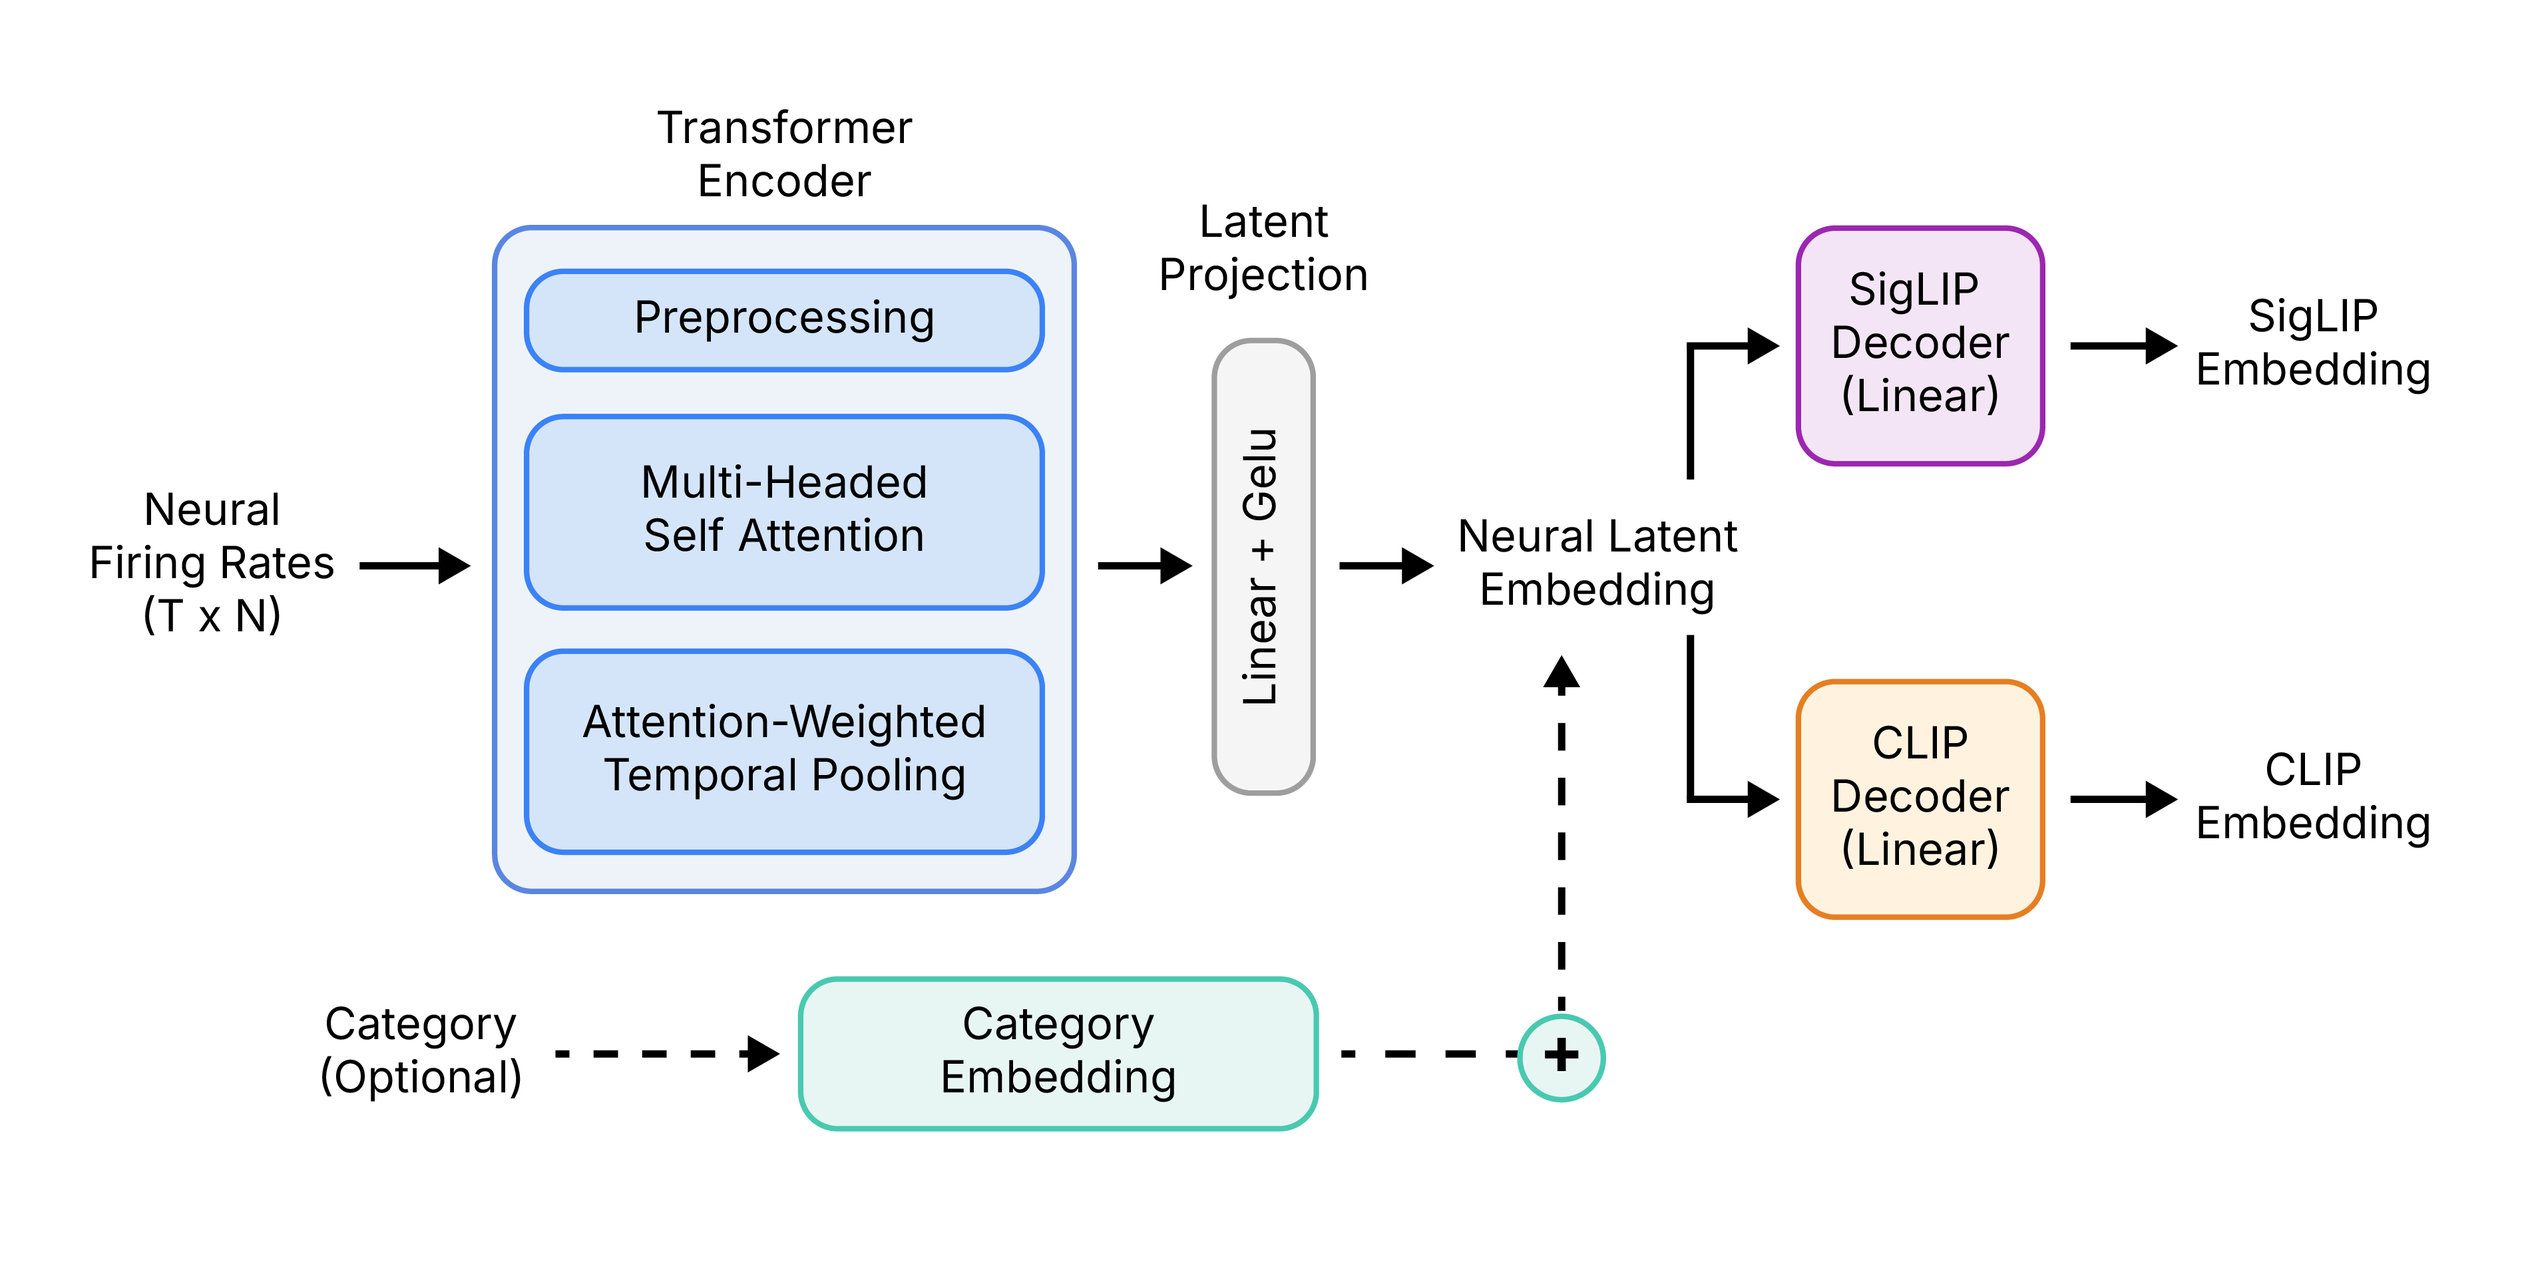
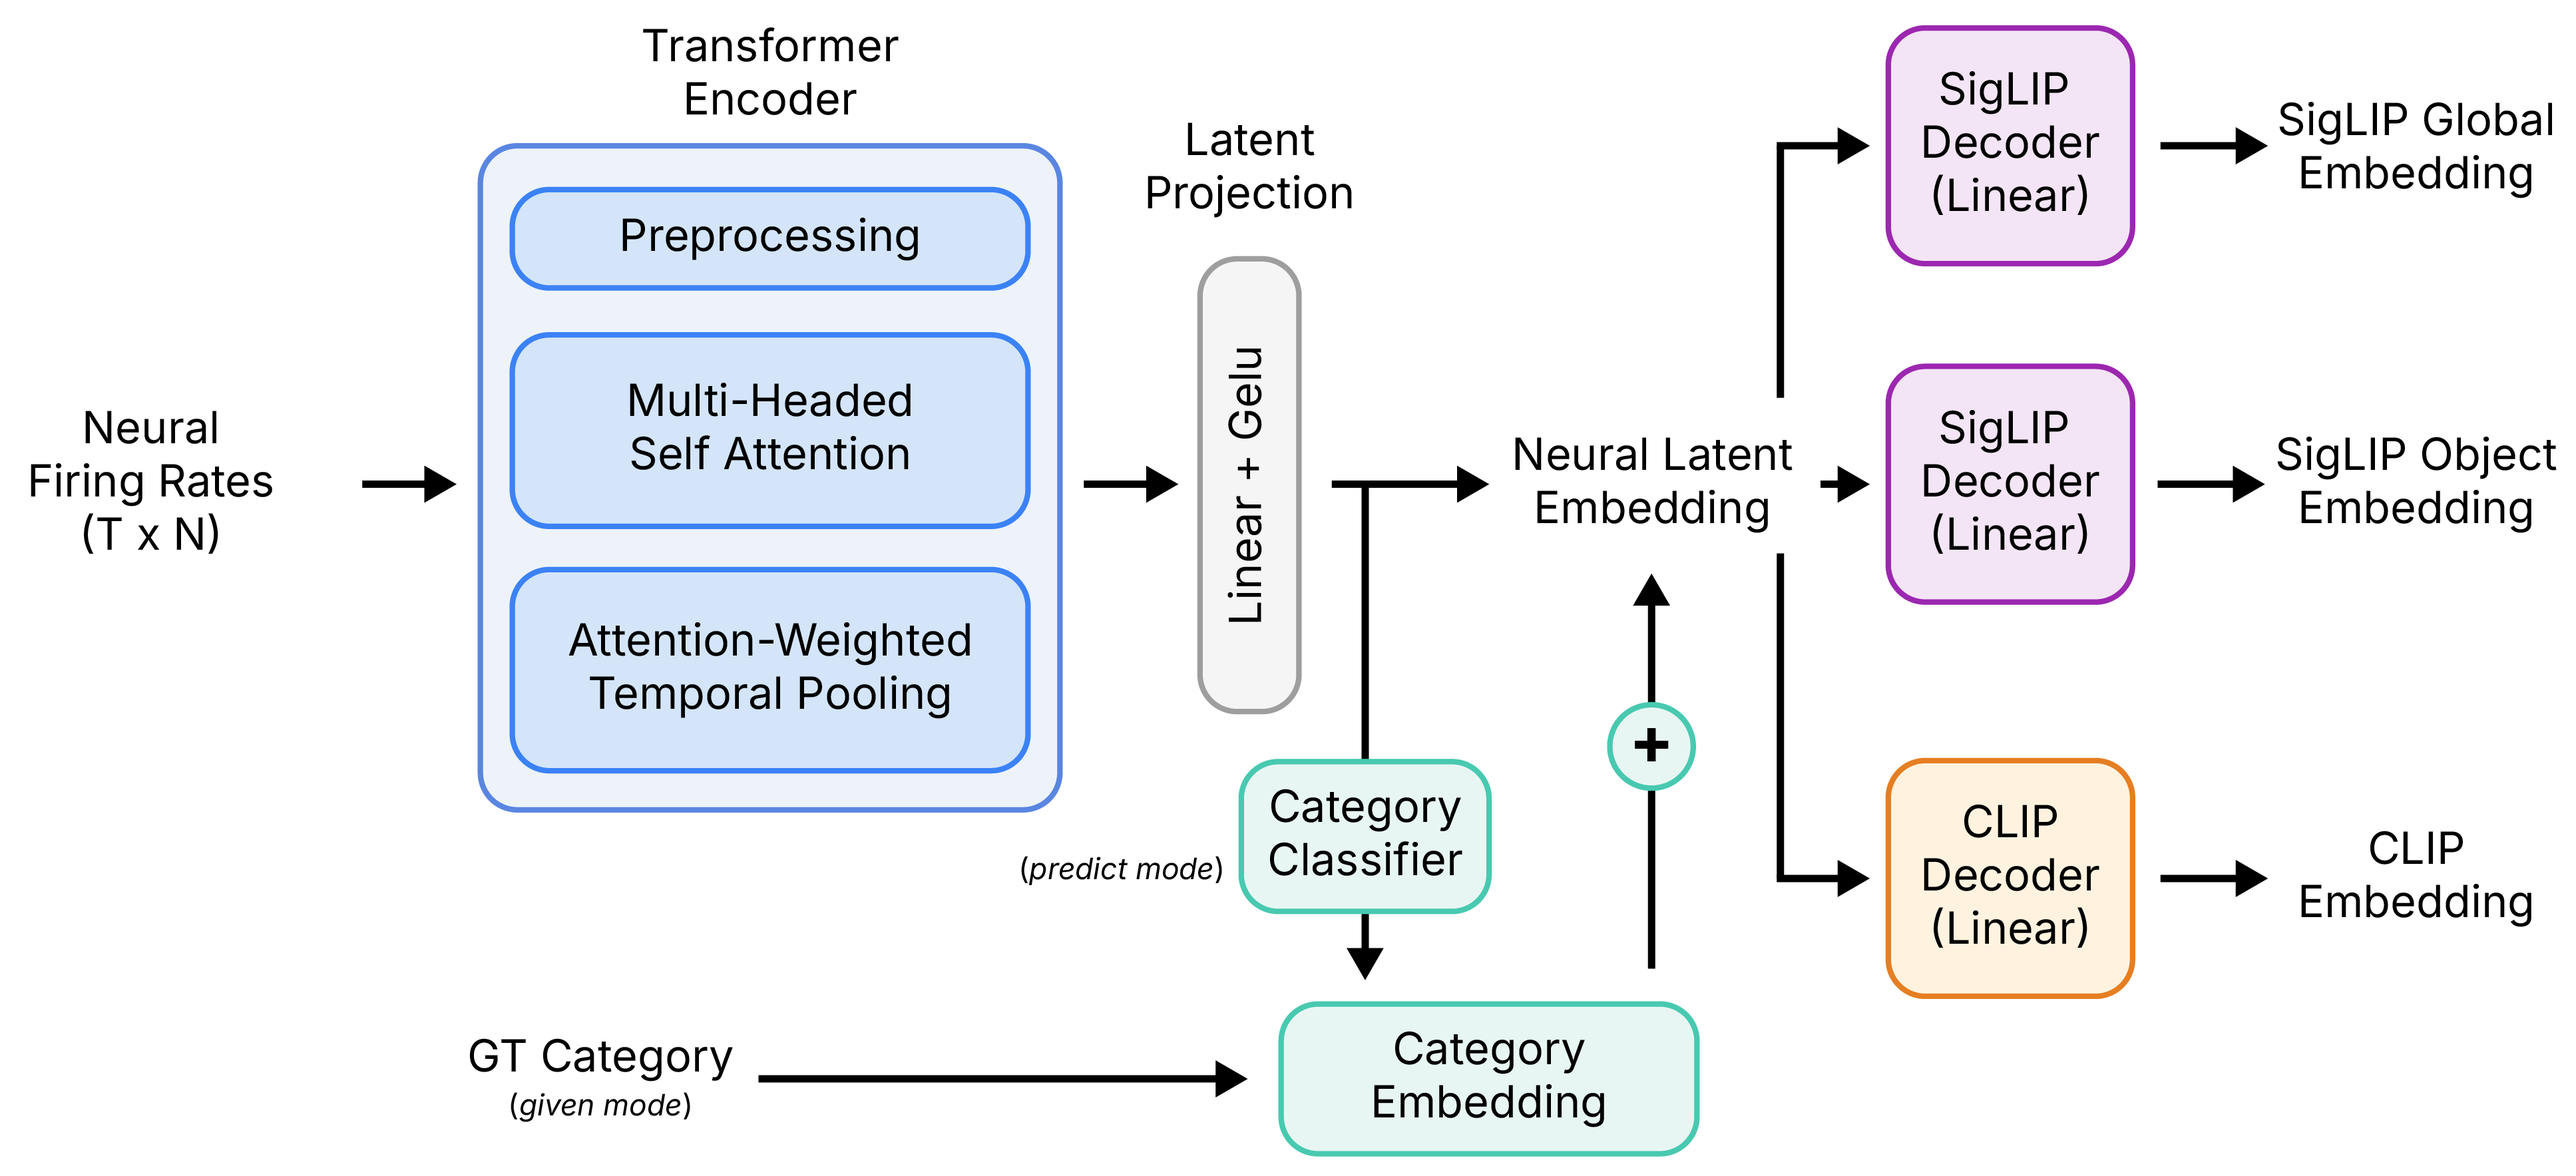
Correct README architecture and LoRA description
Replaces the two-head encoder figure and prose with the unified V2 three-head design and its given/predict category conditioning, and documents the rank-16 FLUX LoRA that inference loads by default, which the README had described as no finetuning at all. Notes that the encoder table reports V2 while the reconstructions come from the earlier separate global and object models, and condenses install and usage into a single block.

Changed region(s): [[0.0, 0.0, 0.995, 0.996], [0.8706, 0.2179, 0.9639, 0.3113], [0.2177, 0.8093, 0.3109, 0.8404]]

diff --git a/README.md b/README.md
@@ -1,6 +1,6 @@
 # From Spikes to Scenes: Neural Image Reconstruction from Marmoset Visual Cortex in the Data-Limited Regime
 
-Reconstructs the image a marmoset was looking at, directly from Neuropixels population activity, by decoding neural responses into vision-language embeddings and conditioning a frozen FLUX.1-dev diffusion model on them.
+Reconstructs the image a marmoset was looking at, directly from Neuropixels population activity, by decoding neural responses into vision-language embeddings and conditioning a FLUX.1-dev diffusion model on them.
 
 Prior brain-to-image work needs 22,000+ images or thousands of trials. This repo does it with **270 training examples**, the regime typical of primate electrophysiology.
 
@@ -19,55 +19,28 @@ Two lightweight transformer encoders map a 2,330-neuron pseudo-population to Sig
 1. **Pass 1 (object recovery).** The GDINO bbox crop is denoised conditioned on `ẑ_sig_obj`, then composited back onto the original to form a spliced latent.
 2. **Pass 2 (global recovery).** Starts from the original init latent conditioned on `ẑ_sig_global`. Bbox tokens are blended toward the spliced latent with a cosine-decaying weight (0.6 → 0), anchoring object structure early and releasing it late. Latents outside the circular aperture are pinned to the original.
 
-No adapter finetuning is involved. Everything downstream of the encoders is pretrained and frozen.
+The IP-Adapter itself is used as pretrained. To close the domain gap between its natural-photograph training distribution and HVM stimuli (controlled lighting, plain backgrounds, circular aperture), a rank-16 LoRA is fine-tuned on the 270 HVM training images over the FLUX transformer's attention and feed-forward layers, with the base weights, VAE, text encoders, SigLIP encoder, and IP-Adapter all frozen. That LoRA is loaded by default at inference.
 
 ---
 
-## Install
+## Install and usage
 
-Dependencies are pinned in `pyproject.toml` and locked in `uv.lock` ([uv](https://docs.astral.sh/uv/) required, Python 3.12).
+Requires [uv](https://docs.astral.sh/uv/) and Python 3.12. All commands run from the repo root.
 
 ```bash
 uv sync
-```
 
-This creates `.venv/` with the cu124 torch builds. The loaders import `HexPred`, which is not a package dependency and is reached through a path entry, so add one after syncing:
-
-```bash
+# HexPred is reached by path, not as a dependency
 printf '%s\n' /home/yy3658 /home/yy3658/HexPred /home/yy3658/helpers \
   > .venv/lib/python3.12/site-packages/extra_paths.pth
+
+uv run python train/train_multihead_v2.py                   # unified three-head encoder
+uv run python train/train_multihead.py --dataset hvm --use-category   # global model, for generation
+uv run python train/train_multihead_obj.py --use-category             # object model, for generation
+uv run python scripts/generate_hvm_obj.py                   # 90 test stimuli
 ```
 
-Then run commands with `uv run`, or activate the venv directly:
-
-```bash
-source .venv/bin/activate
-```
-
-All scripts run from the repo root. Key paths live in `config_const.py`. HVM stimulus images are expected at `stimuli/hvm_nofixation/`, and the caches in `cache/` are built by the scripts in `scripts/`.
-
-## Usage
-
-**Train the encoders.**
-
-```bash
-# Global model (full-image SigLIP + CLIP)
-uv run python train/train_multihead.py --dataset hvm --use-category
-
-# Object model (bbox-crop SigLIP + CLIP)
-uv run python train/train_multihead_obj.py --use-category
-```
-
-Best configurations are written to `cache/best_hvm_multihead_config.json` and `cache/best_hvm_multihead_obj_config.json`. Best sweep result: `d_model=64, n_heads=4, n_layers=2, shared_dim=512`.
-
-**Generate reconstructions.**
-
-```bash
-uv run python scripts/generate_hvm_obj.py          # all 90 test stimuli
-uv run python scripts/generate_hvm_obj.py --n 10   # first 10 only
-```
-
-Outputs land in `outputs/generate_hvm_obj/{full,crop}/` as labeled PNG composites, one per stimulus, covering all four conditions.
+Paths live in `config_const.py`, stimuli in `stimuli/hvm_nofixation/`, and `cache/` is built by the scripts in `scripts/`. Reconstructions land in `outputs/generate_hvm_obj/{full,crop}/`. Best sweep config: `d_model=64, n_heads=4, n_layers=2, shared_dim=512`.
 
 ## Repository layout
 
@@ -100,13 +73,17 @@ Neural responses are mean-trial spike rates from Neuropixels 1.0 recordings in m
 
 ## Model details
 
-Each encoder predicts an L2-normalised SigLIP and CLIP embedding from the neural response. The global model targets the full-image SigLIP, the object model targets SigLIP of the GDINO-cropped object region. That separation is neurobiologically motivated: the ventral stream encodes a position- and size-invariant representation that aligns more closely with the object crop than the full image. A learned category embedding is added to the shared latent as a low-data inductive bias, and the shared latent doubles as an interpretable probe of the population, analyzable independently of generation.
+A shared pre-LN transformer backbone pools the neural response over time by learned attention, projects it to a `shared_dim` latent, and reads out three L2-normalised heads: full-image SigLIP, object-crop SigLIP, and CLIP. Splitting the two SigLIP targets is neurobiologically motivated, since the ventral stream encodes a position- and size-invariant representation that aligns more closely with the object crop than the full image.
+
+This unified V2 encoder (`encoders/multihead_v2.py`, trained by `train/train_multihead_v2.py`) is what the analyses below probe. The generation pipeline still runs the earlier design, where the same backbone and loss are trained twice as separate global and object models with one SigLIP head each.
+
+A learned category embedding is added to the shared latent as a low-data inductive bias. The label is either supplied (`given`) or predicted from the pre-addition latent by a small classifier (`predict`); all results here use `given`, since the classifier only reaches 0.22 test accuracy. The latent before that addition doubles as an interpretable probe of the population, analyzable independently of generation.
 
 ![MultiHeadTransformer architecture](assets/fig1_architecture.png)
 
 The loss combines per-head InfoNCE and cosine regression with a uniformity penalty on the shared latent:
 
-$$\mathcal{L} = w_\text{sig}\left[\alpha \mathcal{L}^\text{sig}_\text{NCE} + (1-\alpha)\mathcal{L}^\text{sig}_\text{cos}\right] + w_\text{clip}\left[\alpha \mathcal{L}^\text{clip}_\text{NCE} + (1-\alpha)\mathcal{L}^\text{clip}_\text{cos}\right] + w_\text{unif}\mathcal{L}_\text{unif}$$
+$$\mathcal{L} = \sum_{h \in \{\text{sig-g},\, \text{sig-o},\, \text{clip}\}} w_h \left[\alpha \mathcal{L}^h_\text{NCE} + (1-\alpha)\mathcal{L}^h_\text{cos}\right] + w_\text{unif}\mathcal{L}_\text{unif}$$
 
 where $\alpha$ controls the InfoNCE/cosine tradeoff and $\mathcal{L}_\text{unif}$ penalises collapsed shared latents.
 
@@ -125,14 +102,15 @@ The IP-Adapter's `MLPProjModel` maps SigLIP 1152-d to 128 × 4096 image tokens, 
 | Neural pred | zeroed | ẑ_clip (obj model) | ẑ_sig_obj → ẑ_sig_global |
 | GT emb (upper bound) | zeroed | category CLIP | GT SigLIP crop → GT SigLIP full |
 
-**The encoders generalize.** Both reach well above-chance 2-AFC on held-out stimuli, so 270 training examples suffice to recover stimulus-specific embedding information from noisy pseudo-population responses.
+**The encoders generalize.** All three heads reach well above-chance 2-AFC on held-out stimuli, so 270 training examples suffice to recover stimulus-specific embedding information from noisy pseudo-population responses.
 
-| Model | SigLIP cos | CLIP cos | SigLIP 2-AFC | CLIP 2-AFC |
+| Head | cos sim | 2-AFC | top-1 | top-5 |
 | --- | --- | --- | --- | --- |
-| Global | 0.8331 | 0.9834 | 0.9663 | 0.9101 |
-| Object | 0.8804 | 0.9886 | 0.9582 | 0.9101 |
+| SigLIP global | 0.8526 | 0.9649 | 0.222 | 0.711 |
+| SigLIP object | 0.8744 | 0.9596 | 0.178 | 0.644 |
+| CLIP | 0.9845 | — | 0.078 | 0.511 |
 
-*Chance = 0.5, on the 90 test stimuli.*
+*Unified V2 encoder (`cat_mode=given`), test split, 90 stimuli. Chance is 0.5 for 2-AFC and 0.011 for top-1. The reconstructions below were generated earlier, from the two separate global and object encoders.*
 
 **Neural conditioning matches or beats text conditioning.** Across the 90 test stimuli, neural reconstructions beat text-conditioned ones on pixel and perceptual fidelity, despite the text condition receiving the ground-truth category label through both T5 and CLIP. The neural pathway has to recover that semantic content from a small, noisy population and still comes out ahead.
 
@@ -149,6 +127,16 @@ The IP-Adapter's `MLPProjModel` maps SigLIP 1152-d to 128 × 4096 image tokens, 
 
 **Failures localize what the population misses.** The gap between neural and GT conditioning is a direct readout of what is in the image but absent from the predicted embeddings. Two patterns recur: on faces, GT recovers fine detail while neural produces a face-shaped object without recognizable features, and on elephants, both text and GT succeed while neural consistently struggles, suggesting a general difficulty encoding that category.
 
+## Probing the decoded representation
+
+The notebooks ask what the decoded embeddings actually contain, past whether the reconstructions look right. Two findings stand out.
+
+**Identity survives the category-centroid control.** A baseline predicting each image's category centroid scores 0.93 overall 2-AFC, beating the decoder, because getting the category right settles most pairwise comparisons. Within-category 2-AFC removes that advantage, putting centroids at exactly 0.500 by construction. The global SigLIP decoder reaches **0.712** there, so it carries genuine image identity beyond category. The object and CLIP heads fall off sharply (0.599, 0.513).
+
+**But the usable subspace is only ~10-dimensional.** Against a permutation null, 10 components of the predicted-to-ground-truth alignment survive, holding 87.6% of ground-truth embedding variance. That subspace is category-structured: between-category axes (animate, face, vehicle) are 93 to 97% aligned with it, while within-category pose axes (rotation, size, translation) are 11 to 18% aligned and land mostly in the discarded remainder. Linear probes agree, recovering category from the shared latent (0.607 vs 0.100 chance) but not pose, scale, or translation.
+
+So the reconstructions rest on a low-dimensional, category-dominated code that still carries measurable within-category identity. The gesture recovery in Figure 3A is real but sits at the edge of what the population supports, which is why it shows up in reconstructions more clearly than in pose probes.
+
 ## Analysis notebooks
 
 | Notebook | Contents |
@@ -164,17 +152,13 @@ The IP-Adapter's `MLPProjModel` maps SigLIP 1152-d to 128 × 4096 image tokens, 
 
 ---
 
-## Limitations and next steps
+## Limitations
 
-The IP-Adapter is frozen and relies on generalizing from its natural-photograph training distribution to HVM stimuli. A lightweight LoRA finetune of its key/value projections on the 270 HVM training images would test whether domain adaptation closes the remaining gap to the original stimulus.
+The FLUX LoRA is trained on the same 270 images the encoders use, so the generator has seen the stimulus domain even though it never sees the held-out test images. Reconstruction quality reflects that adaptation alongside the decoded neural signal.
 
-The encoder's usable signal is also narrower than the reconstructions suggest. The brain-aligned SigLIP subspace is roughly 10-dimensional, and linear probes recover category far better than pose, size, or position, so much of the reconstruction quality rests on category-level structure.
+The encoder's usable signal is also narrower than the reconstructions suggest, as the subspace and probe results above show. Recovering pose reliably likely needs a richer neural signal rather than a better readout.
 
-Planned work:
-
-- **Time and neuron ablation.** Vary the spike-count window across biologically motivated intervals to test whether the early feedforward sweep or later recurrent activity carries more recoverable image information, and subsample recording sites (10/25/50/75%) to trace how reconstruction quality degrades as the pseudo-population shrinks.
-- **Five-fold cross-validation.** Evaluation currently covers 90 of 450 stimuli. Five disjoint category-stratified folds would reconstruct every image exactly once, giving fold-level standard errors and identifying stimuli that fail consistently across folds.
-- **Extend the recording set.** Incorporating additional sessions and newer preprocessing would raise stimulus coverage and electrode count, benefiting both analyses above.
+Evaluation covers the 90 held-out stimuli, not the full 450.
 
 ## References
 
